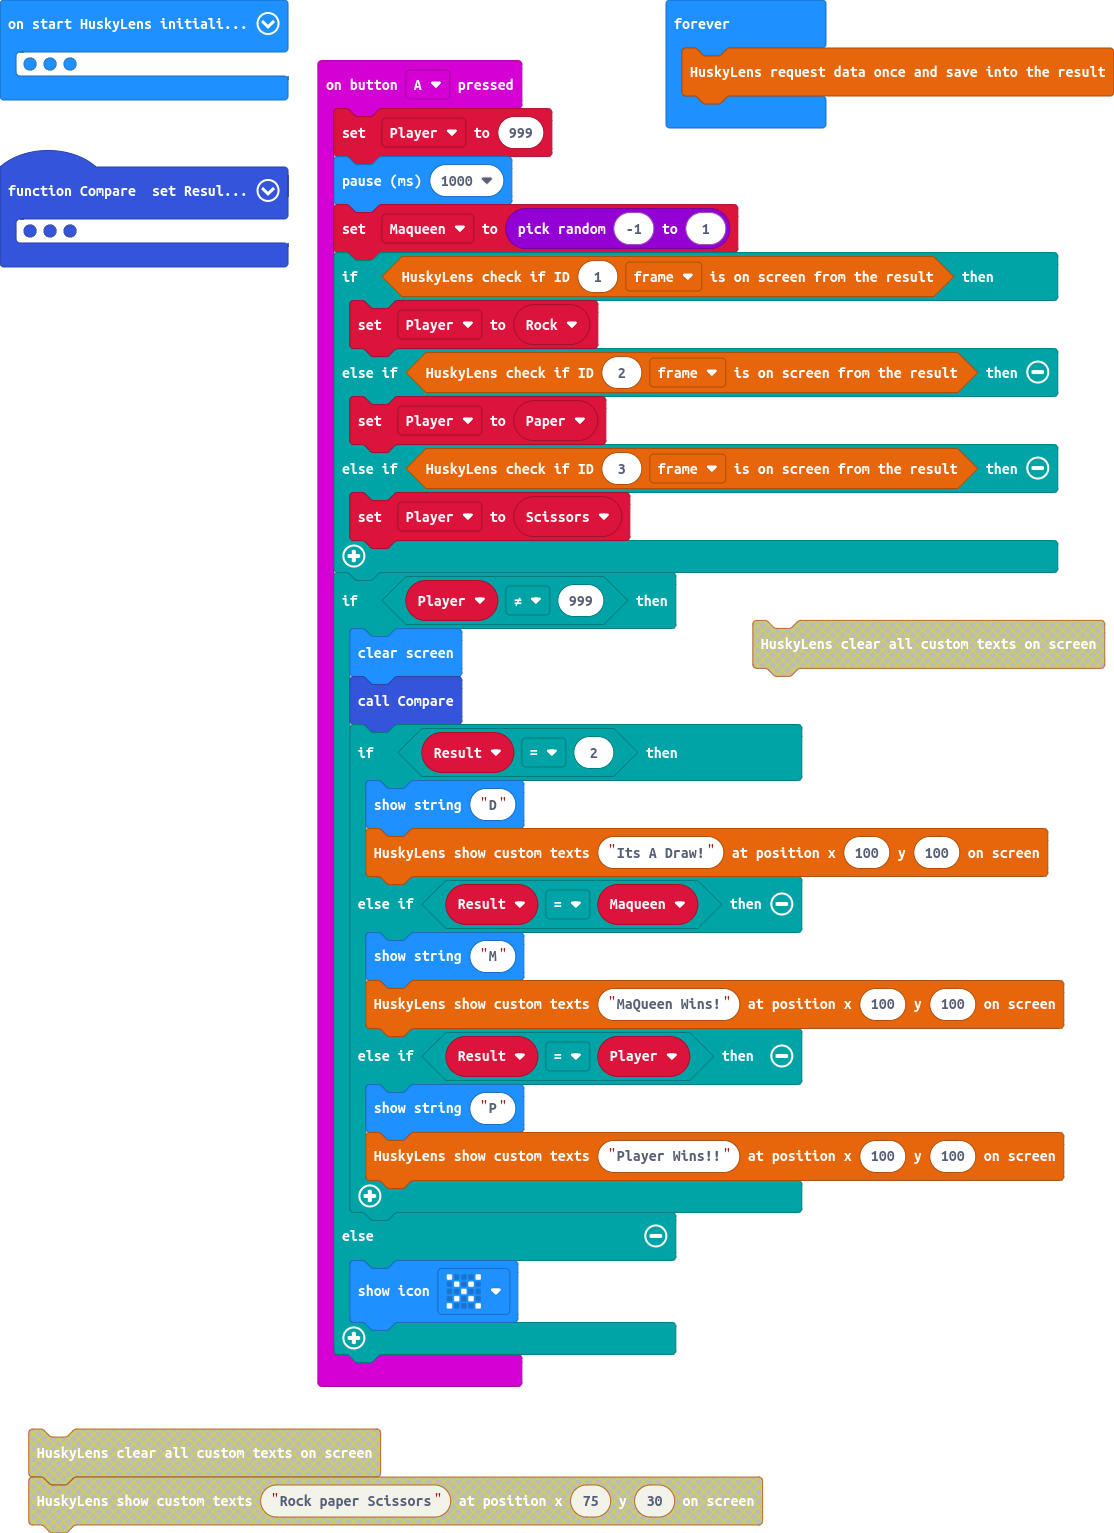
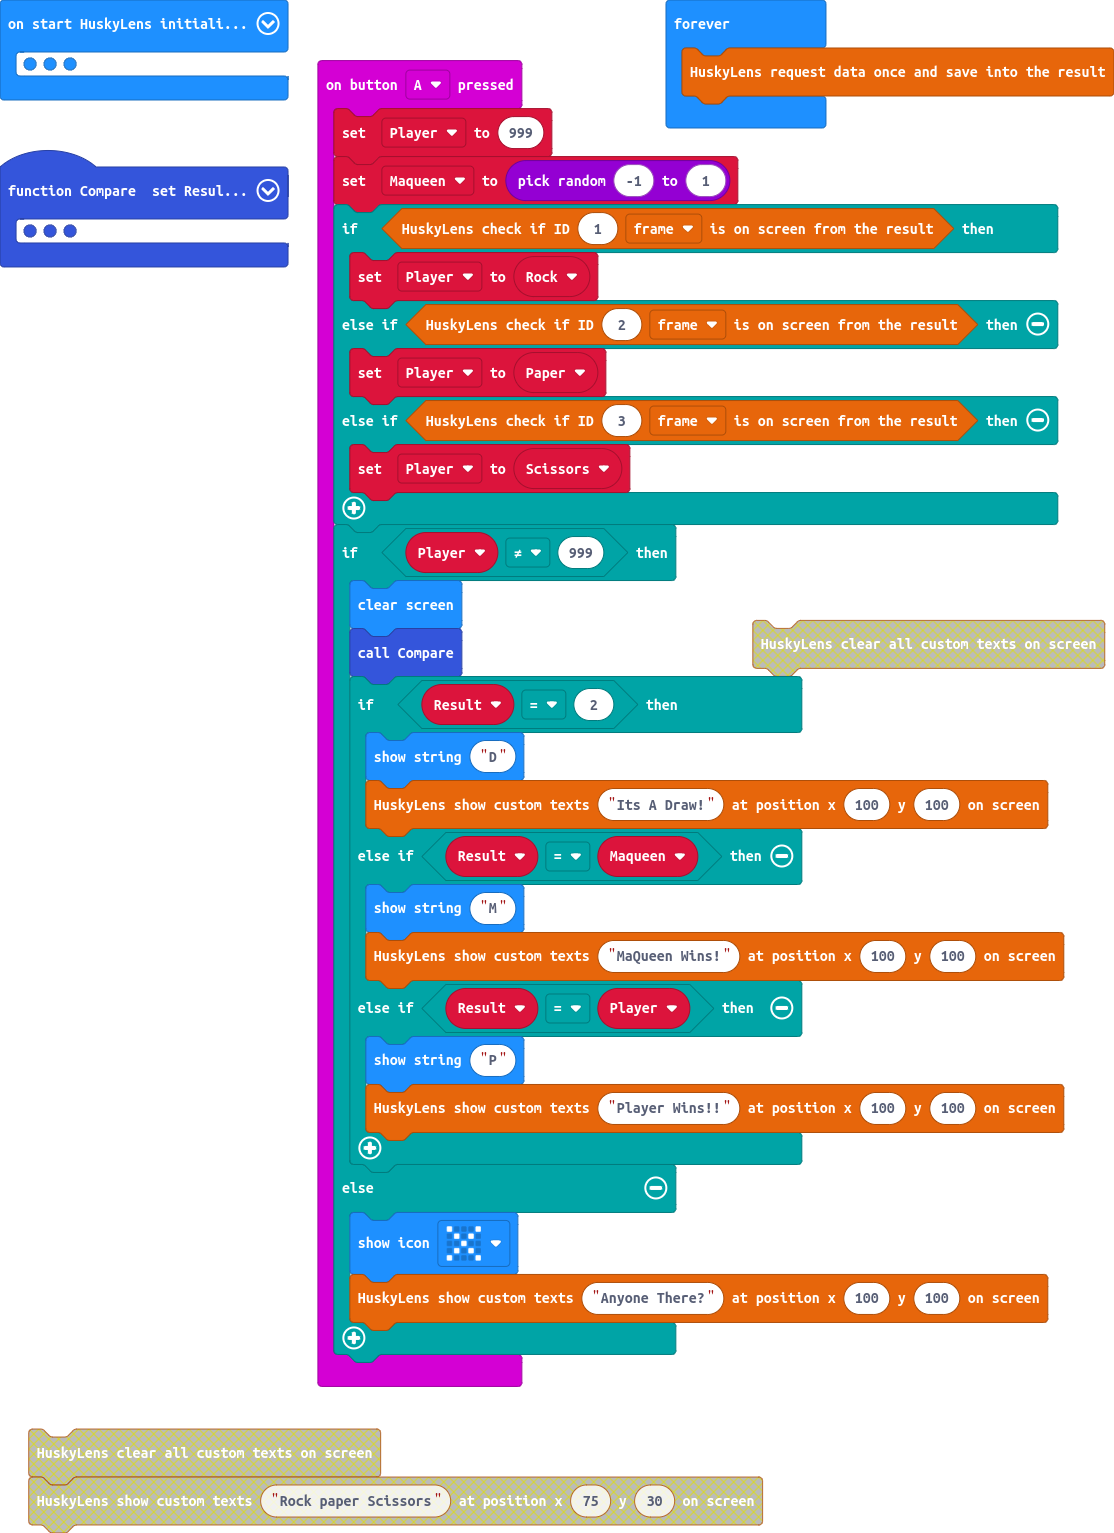
display anyone there on husky if object not recognised

diff --git a/main.ts b/main.ts
@@ -1,6 +1,5 @@
 input.onButtonPressed(Button.A, function () {
     Player = 999
-    basic.pause(1000)
     Maqueen = randint(-1, 1)
     if (huskylens.isAppear(1, HUSKYLENSResultType_t.HUSKYLENSResultBlock)) {
         Player = Rock
@@ -24,6 +23,7 @@ input.onButtonPressed(Button.A, function () {
         }
     } else {
         basic.showIcon(IconNames.No)
+        huskylens.writeOSD("Anyone There?", 100, 100)
     }
 })
 function Compare () {
